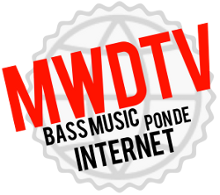
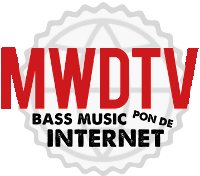
Design changes

diff --git a/app/assets/stylesheets/home.css.sass b/app/assets/stylesheets/home.css.sass
@@ -9,9 +9,12 @@
       margin-top: 0
       margin-bottom: 0
 
+#top-videos
+  margin-bottom: 30px
+
 #videos-list
   .panel-body
-    height: 535px
+    height: 590px
     overflow-y: scroll
   .repeated-category
     font-size: 18px
@@ -24,4 +27,5 @@
 #logo-bottom
   font-size: 40px
   padding-right: 50px
+  margin-top: 10px
   text-align: right

diff --git a/app/assets/stylesheets/common.css.sass b/app/assets/stylesheets/common.css.sass
@@ -6,6 +6,8 @@ html
   background-color: hsl(0, 0%, 93%)
 body
   font-family: 'BebasNeue'
+.panel
+  margin-bottom: 0
 #header
   height: 200px
   background: black
@@ -18,7 +20,7 @@ body
 #main-menu
   background: white
   padding: 0
-  margin-bottom: 30px
+  margin-bottom: 25px
   li
     background: white
     border-bottom: 3px solid white

diff --git a/app/assets/stylesheets/category.css.sass b/app/assets/stylesheets/category.css.sass
@@ -4,6 +4,9 @@
 #category-video
 #category-submenu
   height: 653px
+#category-submenu
+  .panel-body
+    padding: 15px 0
 #category-submenu-random
   text-align: center
   button
